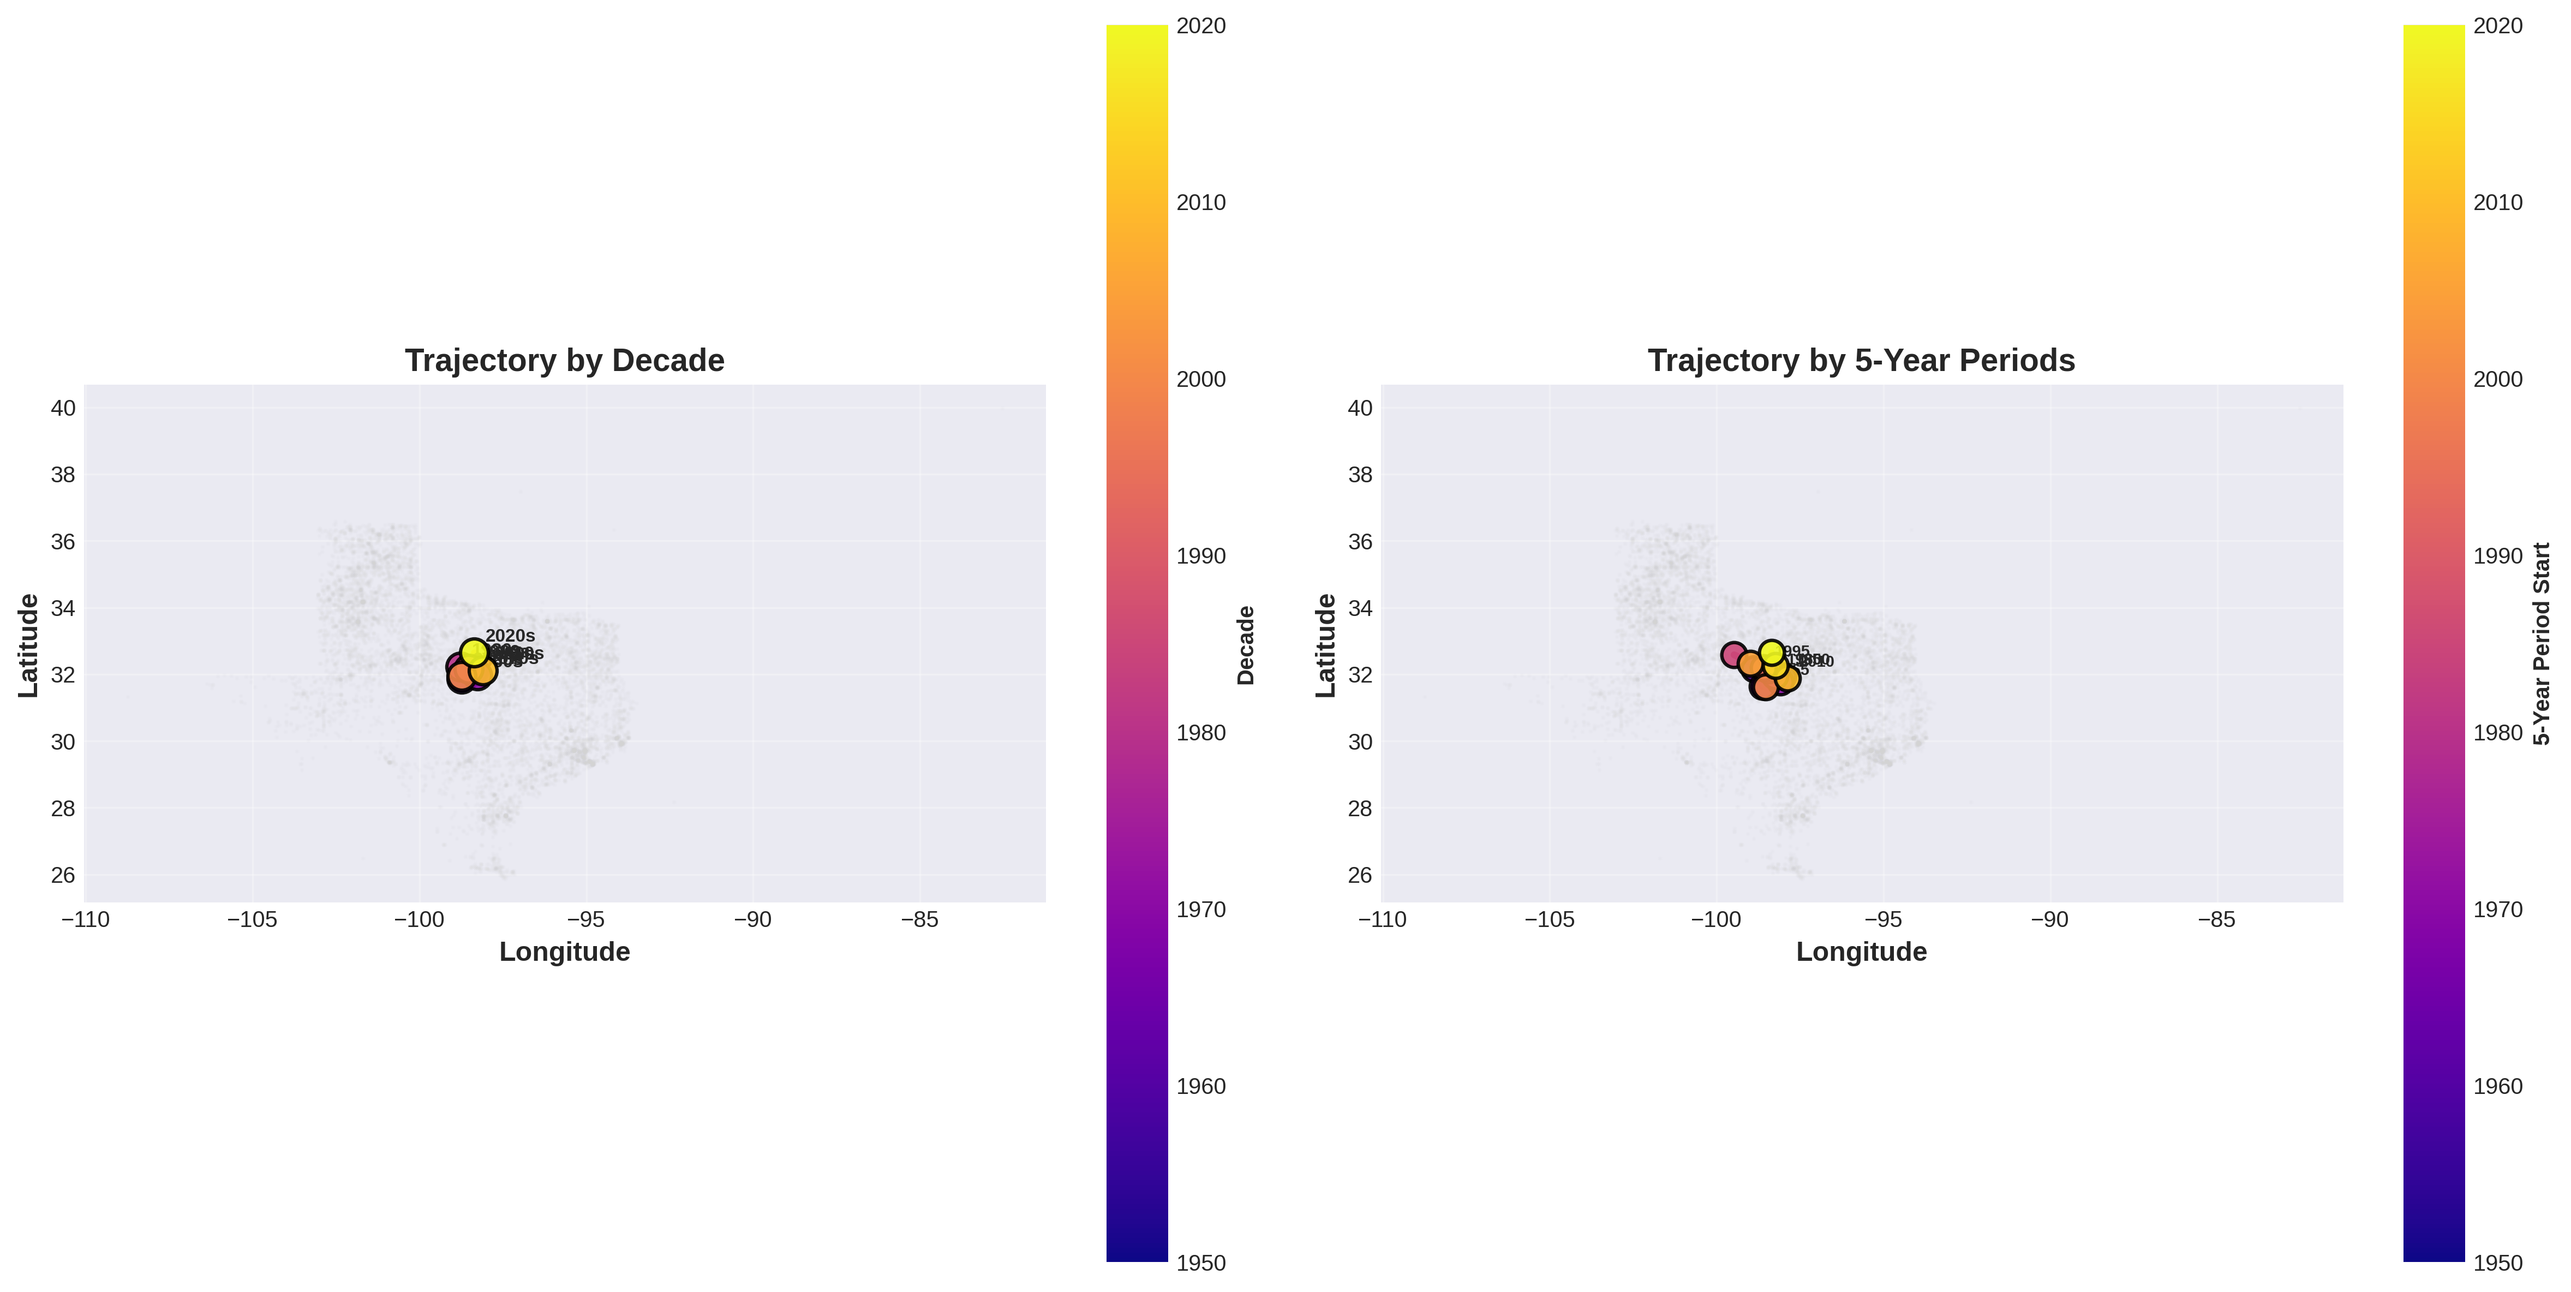
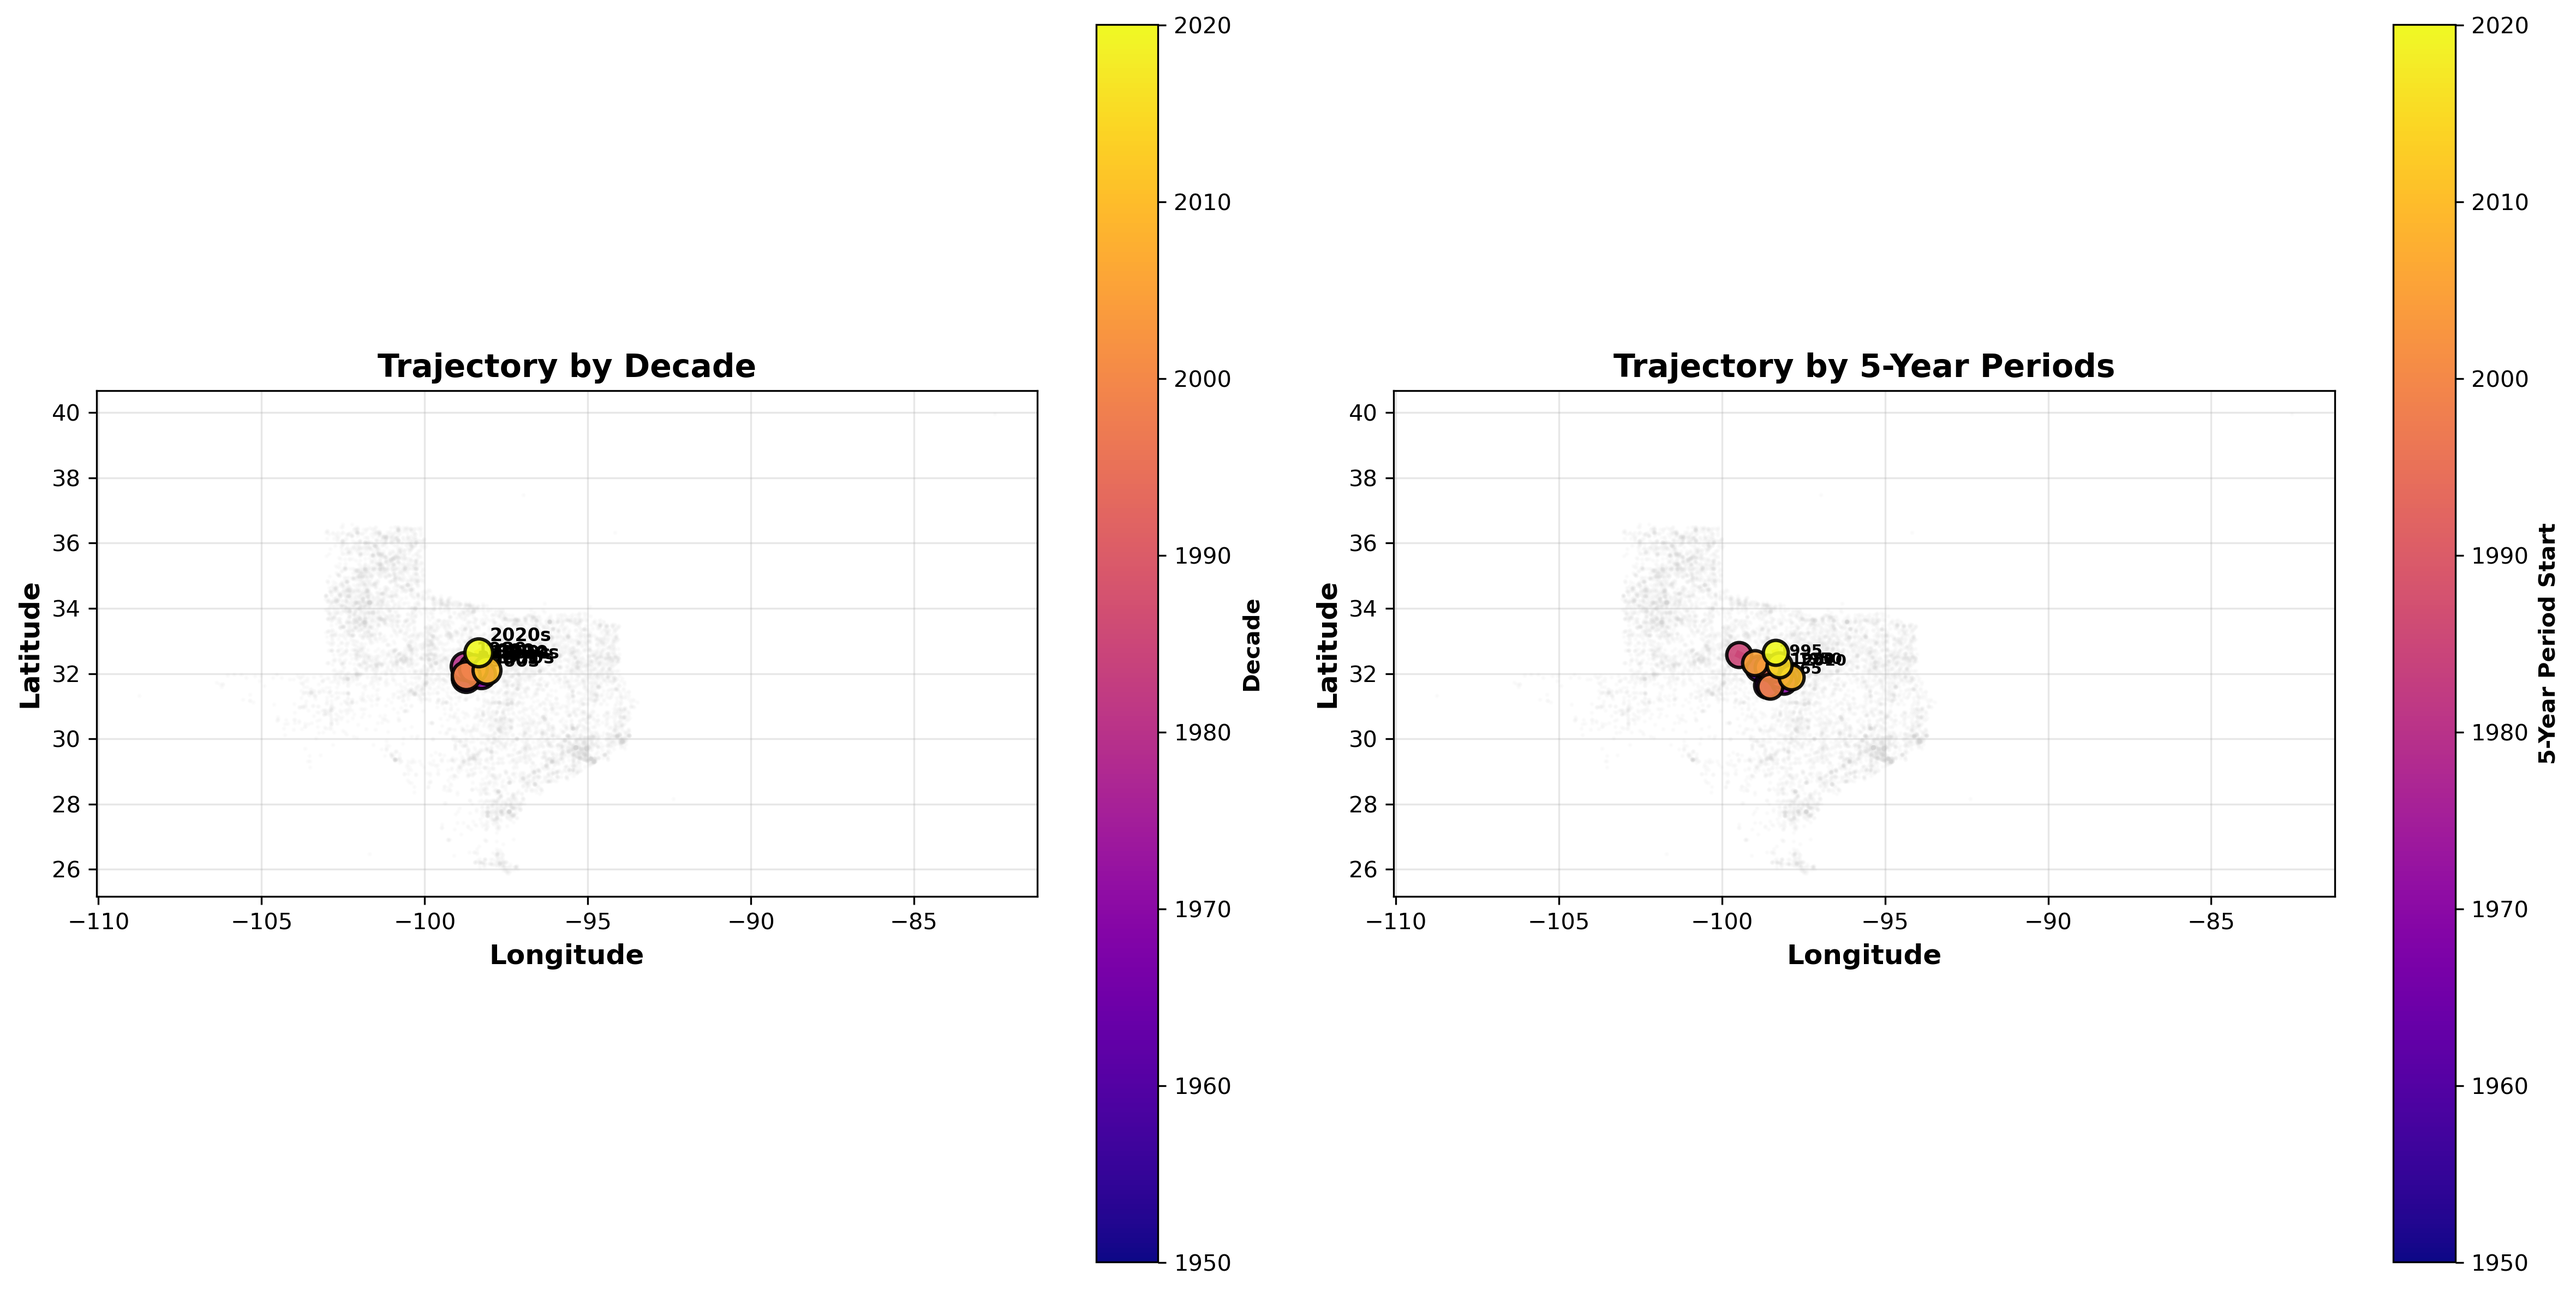
Removed analysis from script (will be done in txt later) + cleanup

diff --git a/scripts/tornado_center_of_mass_shift.py b/scripts/tornado_center_of_mass_shift.py
@@ -4,17 +4,6 @@ import numpy as np
 from scipy import stats
 import os
 
-# Styling
-plt.rcParams['figure.figsize'] = (14, 10)
-try:
-    plt.style.use('seaborn-v0_8-darkgrid')
-except OSError:
-    try:
-        plt.style.use('seaborn-darkgrid')
-    except OSError:
-        plt.style.use('default')
-
-ALPHA = 0.05  # Significance level for hypothesis testing
 
 # Read the dataset
 data_path = '../Data/clean_tornado_tx_1950_2021.csv'
@@ -22,14 +11,6 @@ df = pd.read_csv(data_path)
 
 # Filter out invalid coordinates (0.0, 0.0)
 df_clean = df[(df['slat'] != 0.0) & (df['slon'] != 0.0)].copy()
-
-print("=" * 80)
-print("TEXAS TORNADO CENTER OF MASS SHIFT ANALYSIS (1950-2021)")
-print("=" * 80)
-print(f"\nTotal tornadoes analyzed: {len(df_clean)}")
-print(f"Year range: {df_clean['yr'].min()} - {df_clean['yr'].max()}")
-print(f"Latitude range: {df_clean['slat'].min():.2f}° - {df_clean['slat'].max():.2f}°")
-print(f"Longitude range: {df_clean['slon'].min():.2f}° - {df_clean['slon'].max():.2f}°")
 
 # ============================================================================
 # STEP 1: Calculate Center of Mass by Different Time Periods
@@ -77,18 +58,9 @@ com_by_year_weighted = df_mag.groupby('yr').apply(
     lambda x: calculate_center_of_mass(x, weight_col='mag')
 ).reset_index()
 
-print("\n" + "=" * 80)
-print("CENTER OF MASS BY DECADE")
-print("=" * 80)
-print(com_by_decade[['decade', 'com_lat', 'com_lon', 'count']].to_string(index=False))
-
 # ============================================================================
 # STEP 2: Statistical Analysis - Test for Significant Shift
 # ============================================================================
-
-print("\n" + "=" * 80)
-print("STATISTICAL ANALYSIS: Testing for Significant Shift")
-print("=" * 80)
 
 # Linear regression on latitude over time
 slope_lat, intercept_lat, r_value_lat, p_value_lat, std_err_lat = stats.linregress(
@@ -100,30 +72,6 @@ slope_lon, intercept_lon, r_value_lon, p_value_lon, std_err_lon = stats.linregre
     com_by_year['yr'], com_by_year['com_lon']
 )
 
-print(f"\nLATITUDE SHIFT:")
-print(f"  Slope: {slope_lat:.6f} degrees/year")
-print(f"  Total shift (1950-2021): {slope_lat * 71:.4f} degrees")
-print(f"  R-squared: {r_value_lat**2:.4f}")
-print(f"  P-value: {p_value_lat:.6f}")
-print(f"  Significant? {'YES' if p_value_lat < ALPHA else 'NO'} (α={ALPHA})")
-
-print(f"\nLONGITUDE SHIFT:")
-print(f"  Slope: {slope_lon:.6f} degrees/year")
-print(f"  Total shift (1950-2021): {slope_lon * 71:.4f} degrees")
-print(f"  R-squared: {r_value_lon**2:.4f}")
-print(f"  P-value: {p_value_lon:.6f}")
-print(f"  Significant? {'YES' if p_value_lon < ALPHA else 'NO'} (α={ALPHA})")
-
-# Convert degrees to approximate distance (1 degree ≈ 111 km)
-lat_shift_km = slope_lat * 71 * 111
-lon_shift_km = slope_lon * 71 * 111 * np.cos(np.radians(com_by_year['com_lat'].mean()))
-total_shift_km = np.sqrt(lat_shift_km**2 + lon_shift_km**2)
-
-print(f"\nAPPROXIMATE DISTANCE SHIFT (1950-2021):")
-print(f"  North-South: {lat_shift_km:.2f} km")
-print(f"  East-West: {lon_shift_km:.2f} km")
-print(f"  Total distance: {total_shift_km:.2f} km")
-
 # ============================================================================
 # STEP 3: Create Visualizations
 # ============================================================================
@@ -134,27 +82,6 @@ os.makedirs(output_dir, exist_ok=True)
 # ============================================================================
 # Figure 1: Center of Mass Trajectory Plots (Grouped Together)
 # ============================================================================
-
-# Calculate bounds for center of mass region (with padding)
-# Combine all center of mass points to determine zoom region
-all_com_lat = pd.concat([com_by_decade['com_lat'], com_by_5yr['com_lat']])
-all_com_lon = pd.concat([com_by_decade['com_lon'], com_by_5yr['com_lon']])
-
-lat_min, lat_max = all_com_lat.min(), all_com_lat.max()
-lon_min, lon_max = all_com_lon.min(), all_com_lon.max()
-
-# Add padding (15% on each side)
-lat_range = lat_max - lat_min
-lon_range = lon_max - lon_min
-lat_padding = lat_range * 0.15
-lon_padding = lon_range * 0.15
-
-lat_lim = [lat_min - lat_padding, lat_max + lat_padding]
-lon_lim = [lon_min - lon_padding, lon_max + lon_padding]
-
-print(f"\nZoom region for trajectory plots:")
-print(f"  Latitude: {lat_lim[0]:.4f}° to {lat_lim[1]:.4f}° (range: {lat_range:.4f}°)")
-print(f"  Longitude: {lon_lim[0]:.4f}° to {lon_lim[1]:.4f}° (range: {lon_range:.4f}°)")
 
 # Create color gradients
 decade_colors = plt.cm.plasma(np.linspace(0, 1, len(com_by_decade)))
@@ -332,54 +259,13 @@ print(f"Results saved to {os.path.join(results_dir, 'center_of_mass_by_5yr.csv')
 
 # Save summary statistics
 summary = {
-    'metric': ['Latitude Slope (deg/year)', 'Longitude Slope (deg/year)',
-               'Latitude R-squared', 'Longitude R-squared',
-               'Latitude P-value', 'Longitude P-value',
-               'Total Lat Shift (deg)', 'Total Lon Shift (deg)',
-               'Total Shift Distance (km)'],
+    'metric': ['lat_slope', 'lon_slope',
+               'lat_r2', 'lon_r2',
+               'lat_p', 'lon_p'],
     'value': [slope_lat, slope_lon, r_value_lat**2, r_value_lon**2,
-              p_value_lat, p_value_lon, slope_lat * 71, slope_lon * 71,
-              total_shift_km]
+              p_value_lat, p_value_lon]
 }
 summary_df = pd.DataFrame(summary)
 summary_df.to_csv(os.path.join(results_dir, 'center_of_mass_shift_summary.csv'), index=False)
-print(f"Summary statistics saved to {os.path.join(results_dir, 'center_of_mass_shift_summary.csv')}")
-
-print("\n" + "=" * 80)
-print("STATISTICAL CONCLUSION")
-print("=" * 80)
-print("\nNull Hypothesis (H0): The center of mass of tornado occurrences has not changed over time.")
-print(f"Alternative Hypothesis (H1): The center of mass of tornado occurrences has changed over time.")
-print(f"Significance level (α): {ALPHA}")
-
-if p_value_lat < ALPHA or p_value_lon < ALPHA:
-    print("\n" + "-" * 80)
-    print("RESULT: We REJECT the null hypothesis.")
-    print("-" * 80)
-    print("There is sufficient statistical evidence to conclude that the center of mass")
-    print("of tornado occurrences in Texas has changed significantly over time (1950-2021).")
-    if p_value_lat < ALPHA:
-        direction_lat = "northward" if slope_lat > 0 else "southward"
-        print(f"\n  - Latitude: Significant shift {direction_lat} (p = {p_value_lat:.4f})")
-        print(f"    Rate: {abs(slope_lat):.6f} degrees/year")
-    if p_value_lon < ALPHA:
-        direction_lon = "eastward" if slope_lon > 0 else "westward"
-        print(f"\n  - Longitude: Significant shift {direction_lon} (p = {p_value_lon:.4f})")
-        print(f"    Rate: {abs(slope_lon):.6f} degrees/year")
-else:
-    print("\n" + "-" * 80)
-    print("RESULT: We FAIL TO REJECT the null hypothesis.")
-    print("-" * 80)
-    print("There is insufficient statistical evidence to conclude that the center of mass")
-    print("of tornado occurrences in Texas has changed significantly over time (1950-2021).")
-    print(f"\n  - Latitude: p = {p_value_lat:.4f} (not significant)")
-    print(f"  - Longitude: p = {p_value_lon:.4f} (not significant)")
-    print("\nNote: This does not prove that no shift has occurred, but rather that")
-    print("we cannot detect a statistically significant linear trend in the data.")
-    print("The shift may be too subtle, non-linear, or require a longer time period to detect.")
-
-print("\n" + "=" * 80)
-print("ANALYSIS COMPLETE")
-print("=" * 80)
 
 plt.show()
